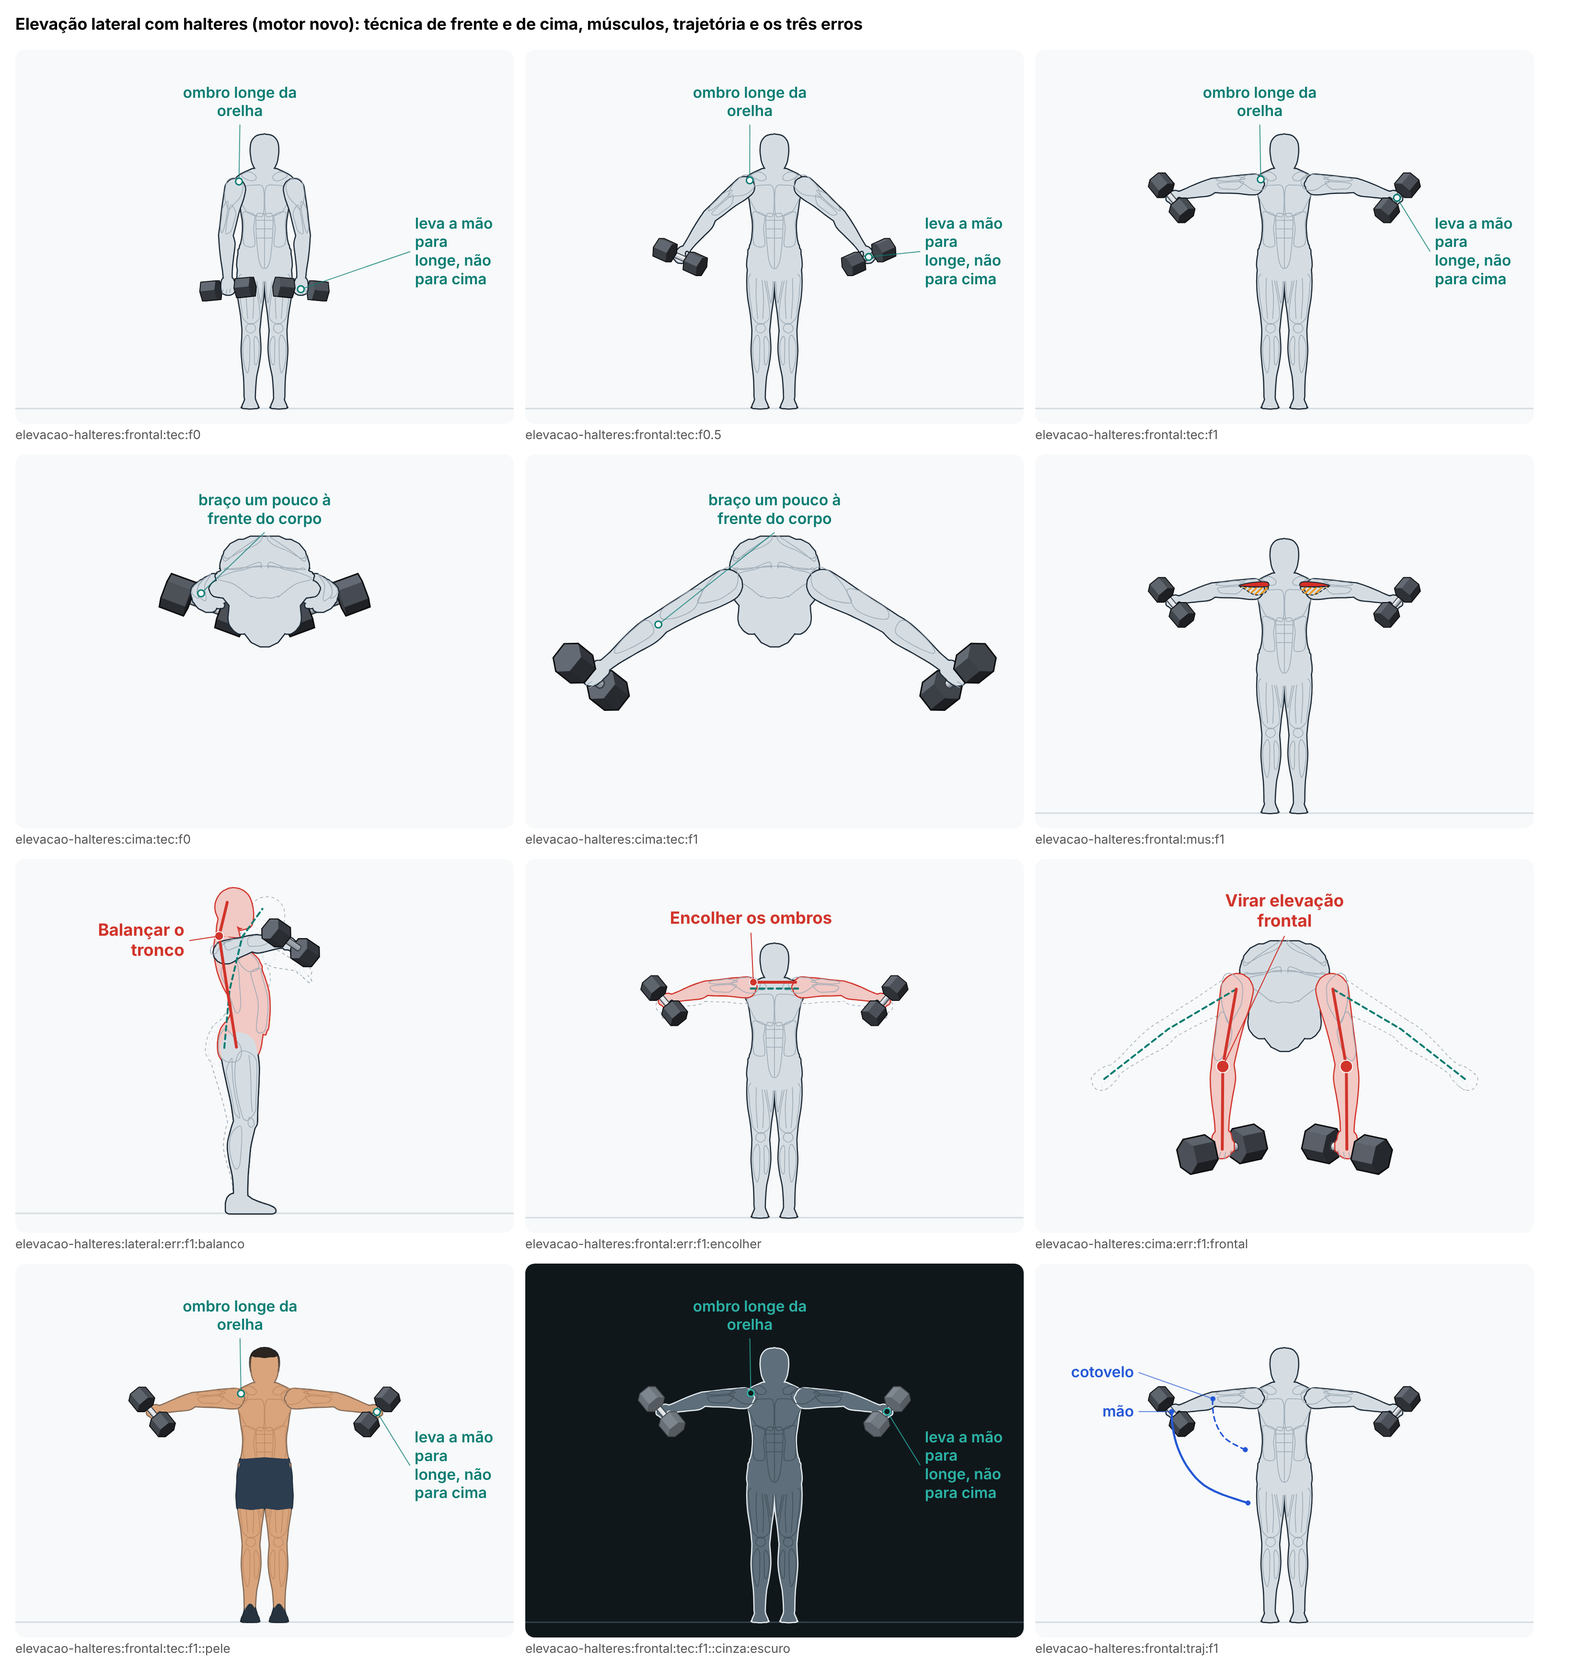
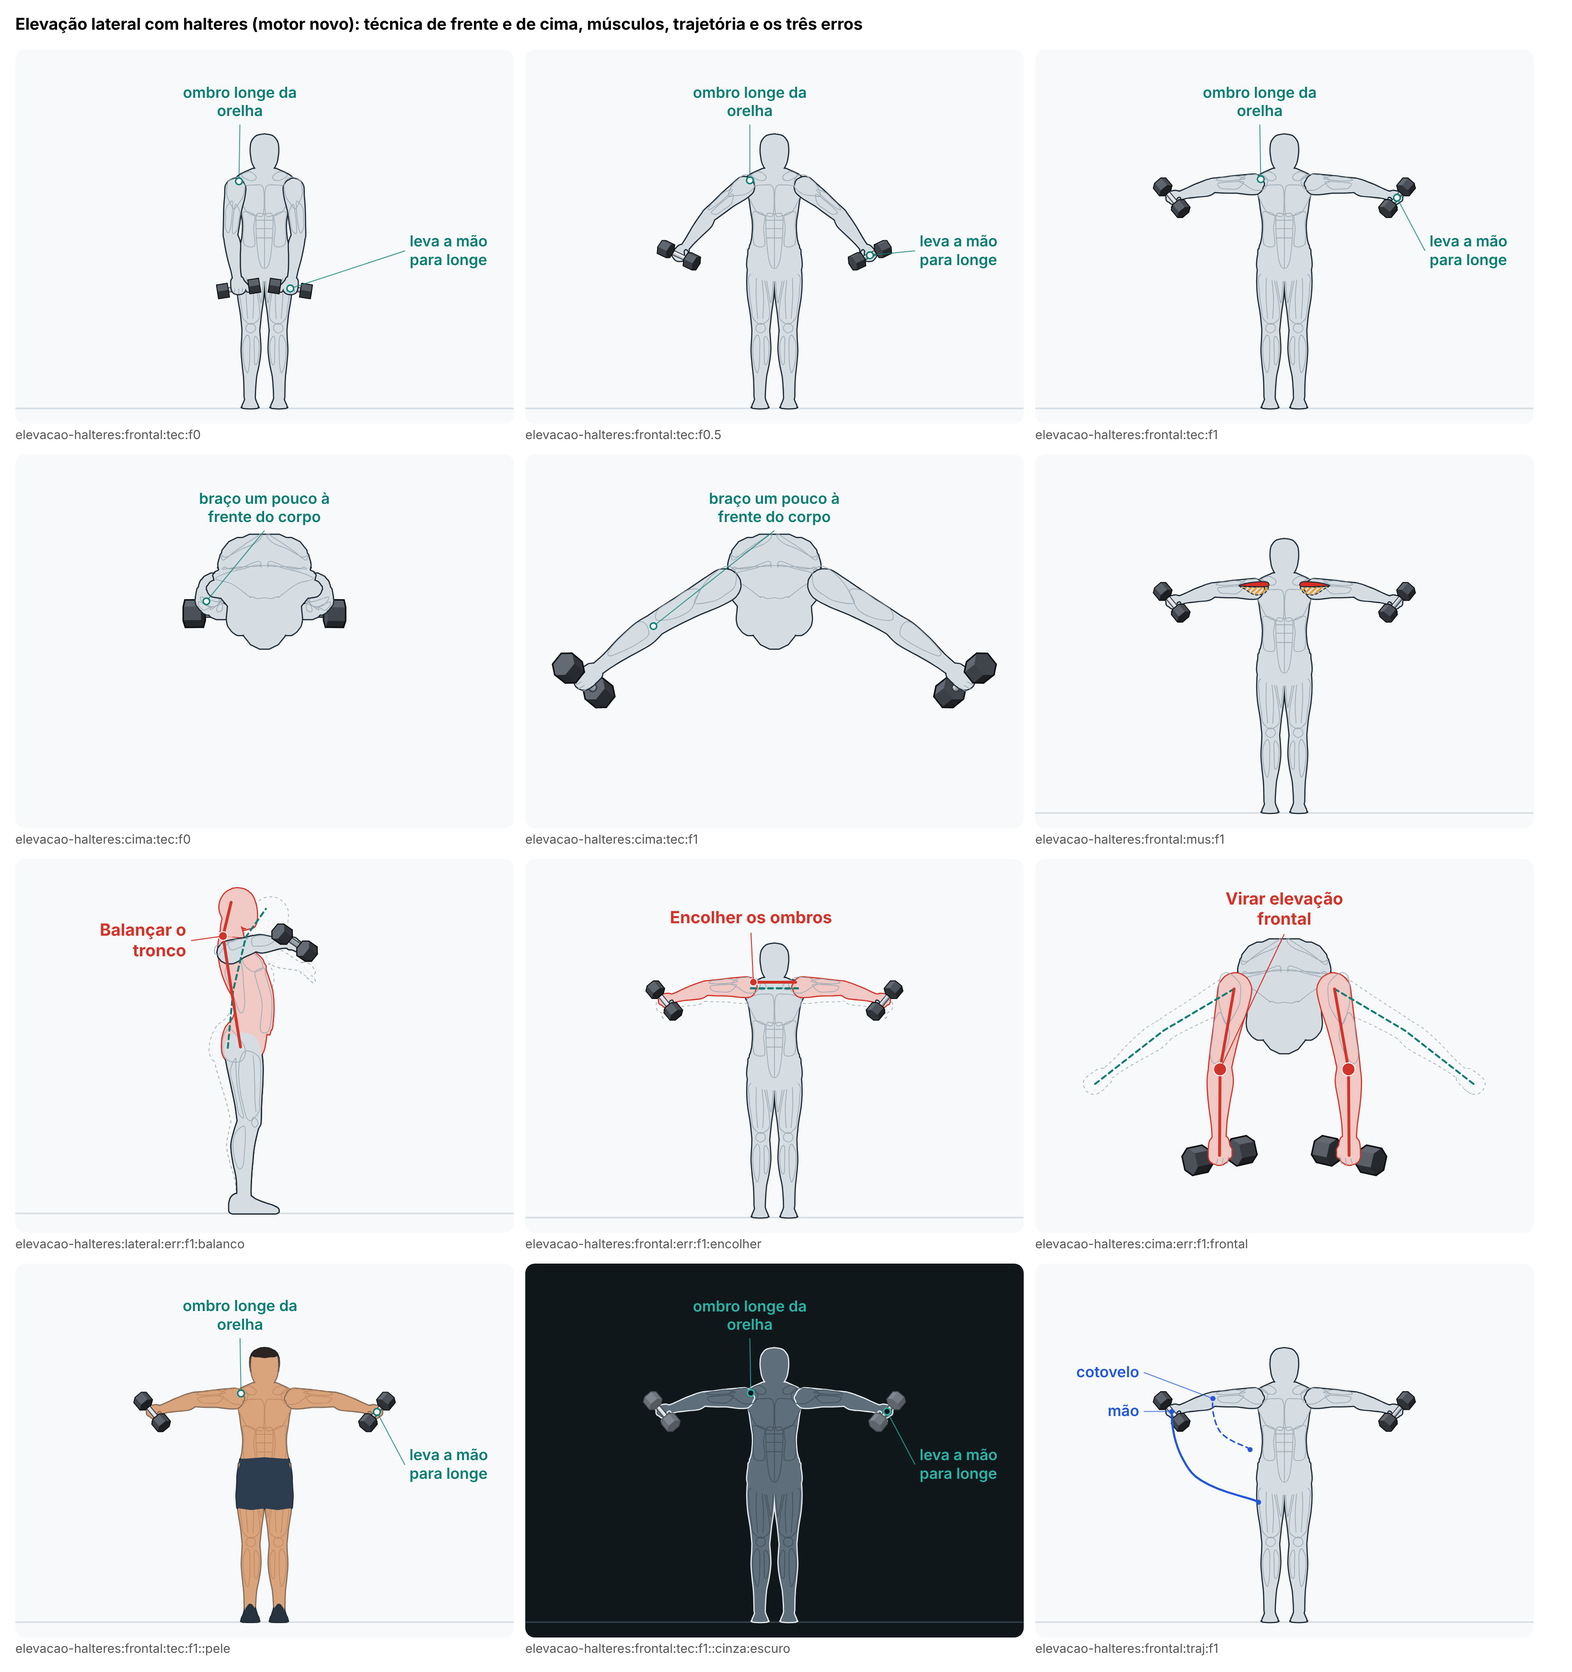
Lote 5: elevação lateral com o halter de 10 lb
Com o halter menor e o braço pendendo no plano de 75° (era 55°), embaixo
os halteres ficam na frente das coxas, como a ficha pede (a mão a 16 cm
do meio do corpo; era 23 cm). A transição do plano passa a 50% do
caminho para o ritmo não dar tranco. Ficha, conferência, quadros e folha
atualizados.

Claude-Session: https://claude.ai/code/session_01YRzts7dTzBdkrmTDEnq8bW

diff --git a/src/engine/novo/exercicios/elevar-o-braco.ts b/src/engine/novo/exercicios/elevar-o-braco.ts
@@ -38,10 +38,14 @@ export function noPlano(a: number, p: number) {
   return { umero, sobe, frente };
 }
 
-export function criarElevacao(fichaJson: unknown, maos: MaosDaElevacao): { ficha: Ficha; quadro(corpo: Corpo, u: number, erro?: string): Quadro } {
+/**
+ * `opcoes.halter`: o id do halter na tabela de objetos (por omissão, o de 25 lb, `'halter'`; `'halterLeve'` é o de 10 lb).
+ */
+export function criarElevacao(fichaJson: unknown, maos: MaosDaElevacao, opcoes: { halter?: string } = {}): { ficha: Ficha; quadro(corpo: Corpo, u: number, erro?: string): Quadro } {
   const F = fichaSchema.parse(fichaJson);
   const f = daFicha(F);
   const polia = maos === 'polia';
+  const H = opcoes.halter ?? 'halter';
   const LADOS_QUE_SOBEM: Lado[] = polia ? ['R'] : [...LADOS];
   const CACHE = new WeakMap<Corpo, { a0: number; rep: number; alfa: number }>();
 
@@ -53,9 +57,9 @@ export function criarElevacao(fichaJson: unknown, maos: MaosDaElevacao): { ficha
     const L = e.lado[k];
     if (polia) return [{ c: L.pegada, r: f('mao.raio') }];
     const eixo = mul(L.mao.x, sinal(k));
-    const ra = obj('halter', 'cabecaLargura') / 2,
-      c0 = obj('halter', 'caboComp') / 2,
-      c1 = obj('halter', 'comp') / 2;
+    const ra = obj(H, 'cabecaLargura') / 2,
+      c0 = obj(H, 'caboComp') / 2,
+      c1 = obj(H, 'comp') / 2;
     const out: Esfera[] = [];
     for (const s of [-1, 1]) for (const fr of [0.2, 0.5, 0.8]) out.push({ c: add(L.pegada, mul(eixo, s * (c0 + (c1 - c0) * fr))), r: ra });
     return out;
@@ -101,7 +105,7 @@ export function criarElevacao(fichaJson: unknown, maos: MaosDaElevacao): { ficha
           const pg = giro - f('polegar.paraCima') * Math.sin(Math.max(0, o.a) * rad) * rad;
           const polegar = norm(add(mul(esp(n.frente), Math.cos(pg)), mul(esp(n.sobe), -Math.sin(pg))));
           pegadas[k] = add(e.lado[k].ombro, add(mul(umero, corpo.m('braco.comp')), mul(antebraco, corpo.m('antebraco.comp') + corpo.m('mao.punhoAoCentroDaPegada'))));
-          return { umero, antebraco, polo: mul(dobra, -1), mao: { polegar, forma: 'pegada', diam: polia ? obj('estribo', 'pegadaDiam') : obj('halter', 'caboDiam') }, elev: o.elev };
+          return { umero, antebraco, polo: mul(dobra, -1), mao: { polegar, forma: 'pegada', diam: polia ? obj('estribo', 'pegadaDiam') : obj(H, 'caboDiam') }, elev: o.elev };
         };
         if (polia) {
           // a mão de fora segura o estribo; a outra segura o trilho da coluna, parada
@@ -169,8 +173,8 @@ export function criarElevacao(fichaJson: unknown, maos: MaosDaElevacao): { ficha
       for (const k of LADOS) {
         const centro = e.lado[k].pegada,
           eixo = mul(e.lado[k].mao.x, sinal(k));
-        q.prims.push(...halter(centro, eixo, 0.4));
-        pecas.push({ t: 'halter', centro, eixo });
+        q.prims.push(...halter(centro, eixo, 0.4, H));
+        pecas.push(H === 'halter' ? { t: 'halter', centro, eixo } : { t: 'halter', centro, eixo, objeto: H });
       }
       q.pecas = pecas;
       q.marcas = { halter: e.lado.R.pegada };

diff --git a/src/engine/novo/exercicios/elevacao-halteres.ts b/src/engine/novo/exercicios/elevacao-halteres.ts
@@ -5,7 +5,8 @@ import ficha from '../dados/movimentos/elevacao-halteres.json';
 import type { Exercicio } from '../movimento';
 import { criarElevacao } from './elevar-o-braco';
 
-const E = criarElevacao(ficha, 'halteres');
+// o halter sextavado de 10 lb (halteres leves, como a ficha pede): embaixo, ele cabe na frente das coxas
+const E = criarElevacao(ficha, 'halteres', { halter: 'halterLeve' });
 
 export const elevacaoHalteres: Exercicio = {
   ficha: E.ficha,

diff --git a/docs/revisoes/animacao-nova/lote-3/elevacao-halteres.md b/docs/revisoes/animacao-nova/lote-3/elevacao-halteres.md
@@ -12,7 +12,8 @@ De 15/11/2026. Segunda animação da família dos ombros no motor novo. A ficha 
 
 - Os dois braços sobem (simétrico), com um halter em cada mão, o cabo na direção do polegar (palmas para dentro embaixo, para baixo no alto).
 - A bacia inclina 12° à frente com a coluna neutra (o peito fica 13° à frente da vertical); o quadril fica parado no ângulo do equilíbrio do meio da subida, com os halteres na conta.
-- Embaixo, o braço pende num plano 55° à frente do plano do corpo, e a elevação do braço sai da folga de 1,5 cm entre a cabeça do halter e a pele da coxa.
+- Embaixo, o braço pende num plano 75° à frente do plano do corpo (55° até 15/11/2026, com o halter de 25 lb), e a elevação do braço sai da folga de 1,5 cm entre a cabeça do halter e a pele da coxa. O braço passa para o plano da subida na primeira metade do caminho.
+- **Desde 15/11/2026 (lote 5), o halter é o sextavado de 10 lb** (`dados/objetos/halter-leve.json`): ver `../lote-5/relatorio-halter-leve.md`.
 
 ## O que a fonte pede × o que o boneco faz (medido) × confere?
 
@@ -20,15 +21,15 @@ De 15/11/2026. Segunda animação da família dos ombros no motor novo. A ficha 
 |---|---|---|---|
 | Pés na largura do quadril, joelhos destravados | consenso | pés a 9 cm do meio; joelhos a 10°; os pés não saem do lugar (0 cm) | sim |
 | Tronco levemente inclinado à frente | consenso | peito a 13,3° da vertical (a regra pede de 5° a 25°); a base do pescoço não se move (0 cm) | sim |
-| Halteres na frente das coxas, palmas para dentro, cotovelos levemente dobrados | consenso | palmas para dentro, cotovelos a 15°; o centro da mão fica 23 cm para fora do meio do corpo e 17 cm à frente do centro da bacia, com a cabeça do halter a 2,2 cm da pele da coxa (ver "O que não ficou bom") | em parte |
+| Halteres na frente das coxas, palmas para dentro, cotovelos levemente dobrados | consenso | palmas para dentro, cotovelos a 15°; o centro da mão fica 16 cm para fora do meio do corpo e 19,5 cm à frente do centro da bacia, na frente da coxa, com a cabeça do halter a 2,7 cm da pele da coxa (antes, com o halter de 25 lb: 23 cm para fora, ao lado da coxa) | sim |
 | Subida ~1–1,5 s; braços para fora e um pouco à frente | consenso | 1,3 s; no alto, o braço fica 30,5° à frente do plano do corpo (o texto aceita ~20° a ~40°) | sim |
 | Cotovelo um pouco acima da mão | consenso | no alto, o cotovelo fica 8,1 cm acima do centro da mão | sim |
 | Topo: braços na linha dos ombros | consenso | o cotovelo fica 0,4 cm abaixo do centro do ombro (o úmero a 89° da vertical) | sim |
 | Ombro longe da orelha | consenso | a clavícula sobe de 11° a 14,5°, só o ritmo normal (0° a mais); a ponta do ombro sobe 1,3 cm | sim |
 | Descida ~2 s, controlando | consenso | 2,1 s, pelo mesmo caminho | sim |
-| Equilíbrio | mecânica | com o quadril parado, o centro de massa (corpo + 2 × 5 kg) anda de −2,3 a +2,2 cm do meio do pé (a regra pede a metade do meio do pé, ±5 cm) | sim |
+| Equilíbrio | mecânica | com o quadril parado, o centro de massa (corpo + 2 × 4,5 kg) anda de −1,7 a +2,0 cm do meio do pé (a regra pede a metade do meio do pé, ±5 cm) | sim |
 
-Conferência automática: **0 falha**. Avisos: as linhas que são escolha de desenho (joelho, inclinação do tronco, pescoço, transição do plano, cotovelo e o giro dele, a folga e a massa do halter), a frente do ombro listrada como "só ajuda" (decisão de 02/11) e a vista de cima, que não serve ao modo Músculos (24 cm² da lateral do ombro, contra 78 de frente). Ritmo: salto de 13% (limite 15%). Supinação do antebraço até 15,5°.
+Conferência automática: **0 falha**. Avisos: as linhas que são escolha de desenho (joelho, inclinação do tronco, pescoço, transição do plano, cotovelo e o giro dele, a folga e a massa do halter), a frente do ombro listrada como "só ajuda" (decisão de 02/11) e a vista de cima, que não serve ao modo Músculos (10 cm² da lateral do ombro, contra 78 de frente). Ritmo: salto de 13,4% (limite 15%; com o plano de baixo a 75° e a transição em 40%, era 16,8%, por isso a transição passou a 50%). Supinação do antebraço até 15,5°.
 
 **Por que o quadril fica parado:** no núcleo dos stiffs, o quadril sai do equilíbrio de cada quadro; com os halteres subindo à frente, a bacia andava 5 cm para trás e a base do pescoço 5,2 cm, e a regra "sem embalo: o tronco fica parado" falhava. Com o quadril parado no ângulo do meio da subida, o tronco não se mexe e o centro de massa anda ±2,3 cm no pé. Por isso a regra do equilíbrio aqui é "perto do meio do pé" (metade do meio), e não "sobre o meio do pé" (±1 cm) dos stiffs.
 
@@ -46,7 +47,7 @@ A primeira é a **de frente** (a do guia de hoje e a que mais mostra a lateral d
 
 ## O equipamento
 
-- **Halteres:** o sextavado da tabela de objetos (33 cm, cabeças de 13,7 cm), com o cabo na direção do polegar. A carga na conta do equilíbrio é 5 kg (a ficha pede "halteres leves"; o desenho é o mesmo halter de 25 lb, que é o único da tabela).
+- **Halteres:** o sextavado de 10 lb da tabela de objetos (`halterLeve`: 26,7 cm, cabeças de 10,2 × 9,1 cm, cabo de 2,8 × 13 cm, 4,5 kg; RitFit e Titan), com o cabo na direção do polegar. A carga na conta do equilíbrio é a massa dele, 4,5 kg (a ficha pede "halteres leves"). Até 15/11 era o de 25 lb, o único da tabela, com 5 kg na conta.
 
 ## Correções já feitas que esta animação respeita
 
@@ -59,5 +60,5 @@ Lateral do ombro dos dois lados (principal) e frente do ombro listrada (só ajud
 
 ## O que não ficou bom
 
-- **"Na frente das coxas" vira "ao lado e à frente das coxas":** com a palma para dentro, o halter de 33 cm fica com o cabo para a frente; para a cabeça dele não atravessar a coxa, a mão fica 23 cm para fora do meio do corpo (quadro `frontal:tec:f0`). Tentei pôr o braço mais à frente (plano de 55°, contra 30° na subida); mais que isso, o braço passa a subir à frente antes de ir para o lado. Com um halter menor (os halteres leves de verdade são mais curtos) a mão ficaria mais perto da coxa; a tabela só tem o de 25 lb.
-- **O halter é o de 25 lb da tabela, desenhado igual nos dois exercícios:** para uma elevação lateral ele é grande. A massa na conta é 5 kg (escolha de desenho).
+- **Resolvido em 15/11 (lote 5): "na frente das coxas".** Com o halter de 25 lb a mão ficava 23 cm para fora do meio do corpo, ao lado da coxa. Com o de 10 lb e o plano de baixo a 75°, a mão fica a 16 cm, na frente da coxa (quadro `frontal:tec:f0`). Só trocar o halter, com o plano a 55°, punha a mão a 21,7 cm (ainda ao lado). O preço: no começo da subida o braço sai mais para a frente antes de abrir para o lado (até a metade do caminho), e de cima, embaixo, os halteres ficam meio escondidos pelos ombros (`cima:tec:f0`).
+- ~~O halter é o de 25 lb~~: desde 15/11 é o de 10 lb, com a massa dele (4,5 kg) na conta.

diff --git a/docs/revisoes/animacao-nova/lote-5/relatorio-halter-leve.md b/docs/revisoes/animacao-nova/lote-5/relatorio-halter-leve.md
@@ -1,0 +1,56 @@
+# Lote 5 · Relatório do halter leve
+
+Ramo: `worktree-agent-ad13b15f38a1b8282` (a partir de `8d6851d`). Entreguei os quatro itens, na ordem pedida.
+
+## 1. O halter novo (`src/engine/novo/dados/objetos/halter-leve.json`, objeto `halterLeve`)
+
+Halter sextavado emborrachado de **10 lb (4,5 kg)**:
+
+| medida | valor | fonte |
+|---|---|---|
+| comprimento total | 26,7 cm (10,5 pol) | RitFit, Hex Dumbbells Technical Specification (`ritfit-hex`, a mesma ficha do halter de 25 lb) |
+| largura da cabeça | 10,2 cm (4 pol) | RitFit |
+| altura da cabeça | 9,1 cm (3,6 pol) | RitFit |
+| diâmetro do cabo | 2,8 cm (1,1 pol) | RitFit (o Titan de 10 lb dá 28 mm, igual) |
+| comprimento livre do cabo | 13,0 cm (5,125 pol) | **outro fabricante:** Titan Fitness, 10 lb Rubber Hex Dumbbells (página pública; a RitFit não publica essa coluna) |
+| massa | 4,5 kg (10 lb) | RitFit |
+
+Nada ficou provisório. Ressalva: a página da Titan foi lida por resumo automático (como a de 25 lb já era).
+
+A peça aceita o tamanho por um campo opcional `objeto` (o id na tabela; sem ele, `'halter'`) em `pecas.ts` (`halter()` e o tipo `Peca`) e em `equipamento.ts` (o desenho realista). Conferi: `npm run conferir:animacao` sem falha, e os quadros de `afundo` e `supino-reto` saíram idênticos byte a byte antes e depois.
+
+## 2. `rosca-inclinada` (nova)
+
+- **Conferência:** 0 falha, 3 avisos (linhas de desenho; antebraço "só ajuda"; vista de lado não serve ao modo Músculos, que fica de frente: 192 cm² contra 50).
+- **Como fechou:** halter de 10 lb, encosto a 60°, braço na vertical de lado (0°), aberto 25° de frente, palma a 85°, topo a 132° (pegada a 26,3 cm do ombro), e a mão encostada na cabeça de dentro do halter (o halter corre 2,2 cm para o lado do polegar: o cabo tem 13 cm e a mão, 8,6). A cabeça do halter fica a −0,2/−0,3 cm da pele na quina do sextavado (no meio e no topo, cintura e peito), dentro da tolerância da regra (−0,5) e invisível nos quadros. Regras novas com nome da família: `halter-perto-do-ombro-na-inclinada` e `costas-e-cabeca-no-encosto-na-inclinada` (a do rascunho tinha o mesmo id de uma regra dos ombros e a conferência parava).
+- **O que ainda não ficou bom:** de frente, os braços formam um "V" de 25° (`quadros/rosca-inclinada.png`, "frontal:tec:f0"); a ficha diz "braços pendurados na vertical". Abaixo de 25°, com a palma para a frente, a cabeça de dentro entra 1 a 4 cm no quadril, na cintura ou no peito: testei abertura de 8° a 34°, encosto 45–60°, palma 62–90°, topo 118–140°, braço até 5° atrás e as escápulas. O encosto ficou em 60° (a ponta mais em pé da faixa do app): a 45° bate mais. O pé foi a 57 cm do quadril para os dois rótulos de lado irem para o lado do encosto sem o fio cruzar o corpo.
+- **Banco:** ficou um só desenho, `pecas-de-cena/banco-regulavel.ts` (`bancoRegulavelNaCena`): o do `desenvolvimento`, que pinta o assento atrás das coxas (no do rascunho, de frente, o assento ficava por cima das coxas), com o trilho debaixo do encosto do rascunho; o assento agora vai 50 cm para trás na pintura (eram 30). Apaguei `banco-inclinado.ts` e `banco-regulavel-provisorio.ts`. O `desenvolvimento` usa a mesma peça: 0 falha, quadros e folha refeitos, conferência escrita (`lote-3/desenvolvimento.md`) atualizada.
+- **Risco de o Gustavo não gostar: médio**, pelo "V" dos braços de frente.
+
+## 3. `rosca-alternada` (e `rosca-martelo`)
+
+- **Alternada:** 0 falha, 3 avisos (linhas de desenho; antebraço "só ajuda"; vista de lado não serve ao modo Músculos). Braços a 6° (eram 17°) e palma a 85° (era 64°). Para a cabeça de dentro não raspar a frente da coxa no começo da subida, o braço fica 5° à frente da linha do tronco (a regra aceita até 10°) e o cotovelo embaixo a 12° (era 8°). Folga mínima −0,1/−0,2 cm na quina, embaixo; não se vê. Testei a mão encostada na cabeça (não ajuda aqui) e a palma a 90° (−1,0 cm).
+- **O que não ficou bom:** os 5° à frente (de lado mal se vê, "lateral:tec:f0"); a palma a 85° e não 90°.
+- **Risco: baixo.**
+- **Martelo:** passou ao mesmo halter (olhei os quadros: de frente a cabeça cobre menos a mão e o bíceps). 0 falha, 3 avisos (os mesmos de antes); folga de 2,1 cm. A cabeça ainda cobre parte da mão de frente embaixo ("frontal:tec:f0"), como já estava registrado. **Risco: baixo.**
+
+## 4. `elevacao-halteres`
+
+- **Conferência:** 0 falha, 3 avisos (linhas de desenho; frente do ombro "só ajuda"; vista de cima não serve ao modo Músculos, 10 cm² contra 78).
+- **Embaixo, na frente das coxas:** só trocar o halter levava a mão de 23 para 21,7 cm do meio do corpo (ainda ao lado da coxa). Com o braço pendendo no plano de 75° (era 55°), a mão fica a 16 cm, na frente da coxa, com a cabeça a 2,7 cm da pele. A transição do plano passou de 40% para 50% do caminho (com 40%, o ritmo dava aviso de 16,8%; agora 13,4%). A massa na conta é a do halter, 4,5 kg (eram 5 kg de desenho).
+- **O que não ficou bom:** no começo da subida o braço sai mais para a frente antes de abrir para o lado; de cima, embaixo, os halteres ficam meio escondidos pelos ombros ("cima:tec:f0"); o fio de "leva a mão para longe" passa por cima do outro halter embaixo ("frontal:tec:f0"), como já passava.
+- **Risco: baixo a médio**, pelo começo da subida mais à frente.
+
+## Arquivos comuns que mexi (mínimo aditivo)
+
+- `src/engine/novo/pecas.ts` e `src/engine/novo/equipamento.ts`: o campo opcional `objeto` do halter (sem ele, nada muda).
+- `src/engine/novo/dados/objetos/registro.ts`: uma linha.
+- Núcleos de família (não estão na lista de comuns, mas são de outros lotes): `exercicios/dobrar-o-cotovelo.ts` (opção `halter` em `criarRoscaEmPe`; `halterNaMao` com o id do halter e o deslocamento para o polegar, ambos opcionais) e `exercicios/elevar-o-braco.ts` (opção `halter` em `criarElevacao`); `exercicios/empurrar-para-cima.ts` (só a troca do banco).
+- Não incluí os arquivos gerais: `npm run conferir:animacao` rodou sem falha nas 49 animações e desfiz `conferencia.*`. `npm run check` passou (57 arquivos, 896 testes).
+
+## Commits (ramo `worktree-agent-ad13b15f38a1b8282`)
+
+- `2ec5ab4` Acrescenta o halter sextavado de 10 lb à tabela de objetos
+- `b0f30d5` Lote 5: rosca inclinada com o halter de 10 lb e um só banco regulável (traz o rascunho `b512878` por cherry-pick, no mesmo commit)
+- `886a7de` Lote 5: rosca alternada e martelo com o halter de 10 lb
+- o último commit, "Lote 5: elevação lateral com o halter de 10 lb", traz também este relatório (o hash está na resposta)
